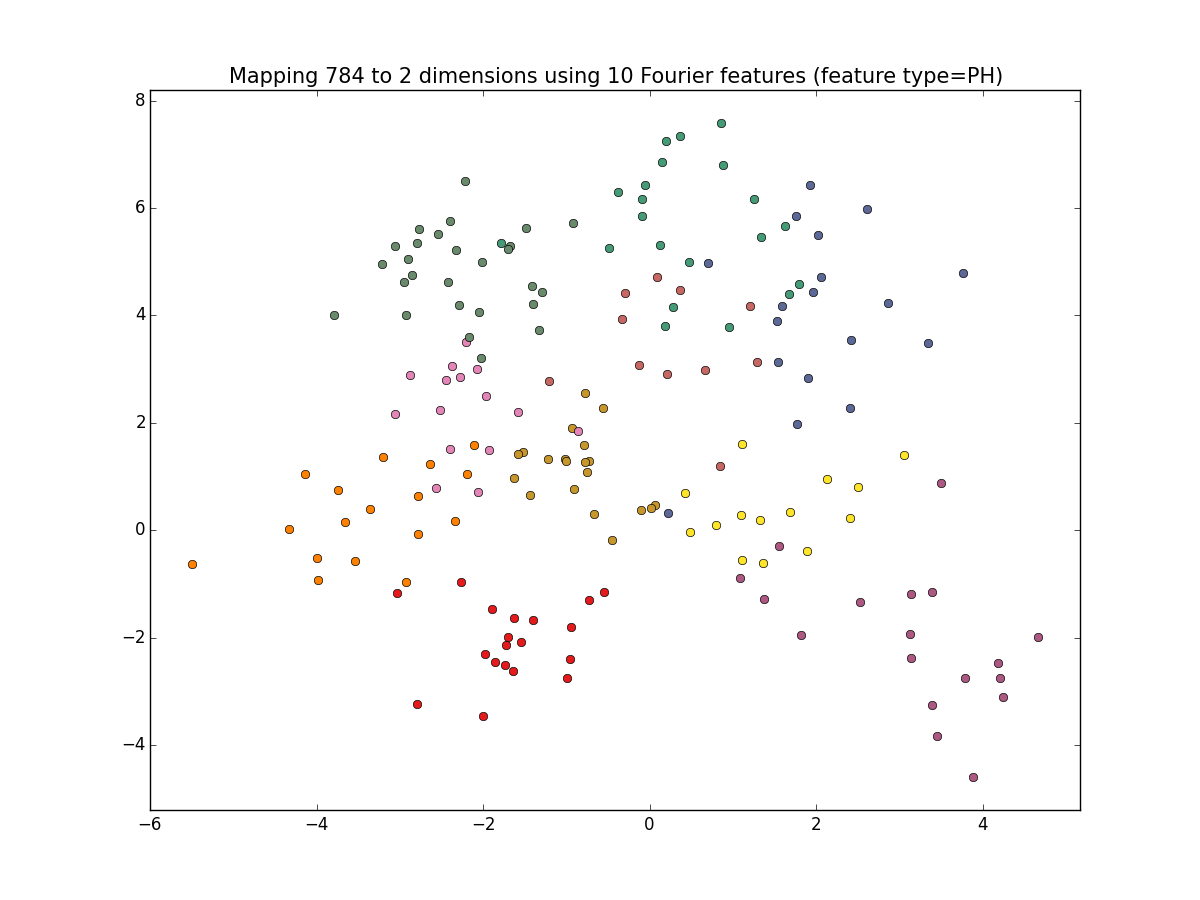
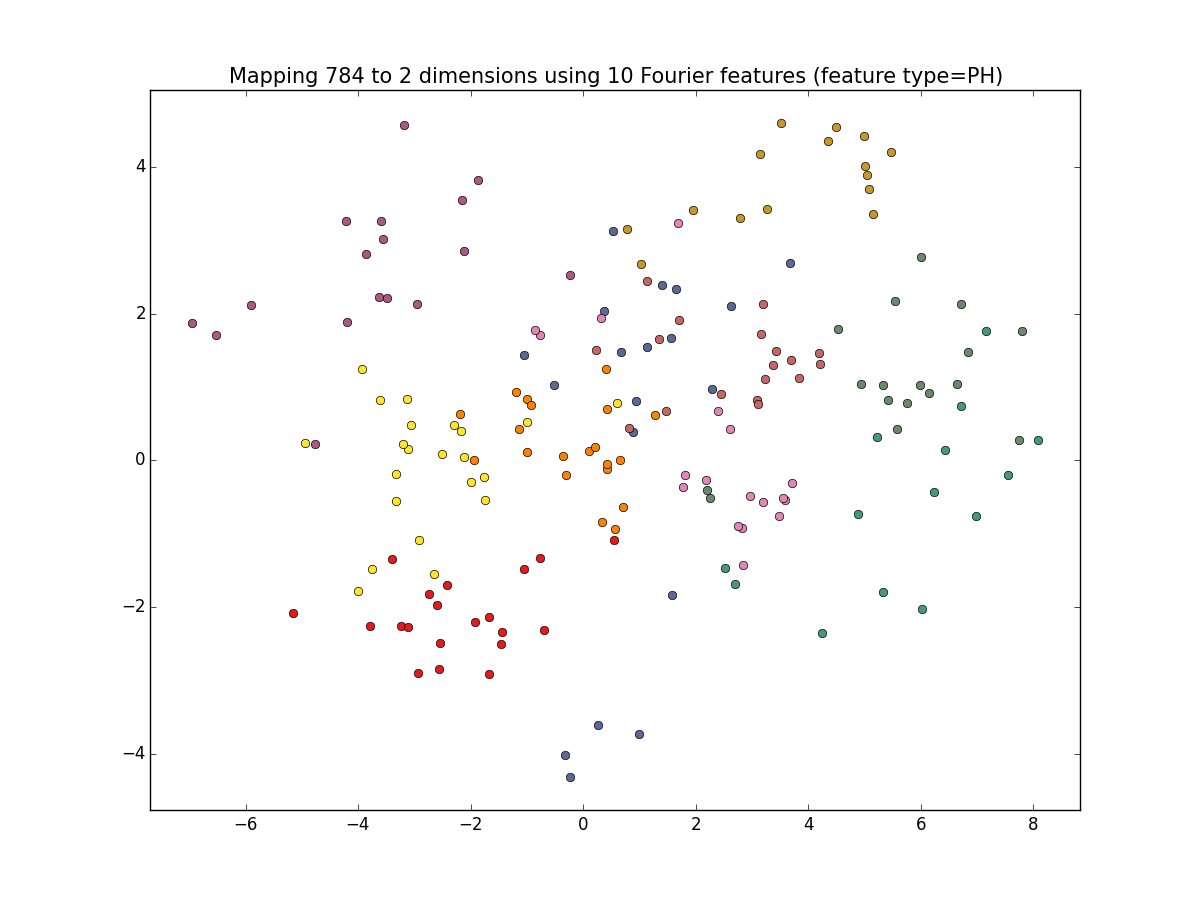
lastest commit

diff --git a/experiments/mnist/dimensionality_reduction.py b/experiments/mnist/dimensionality_reduction.py
@@ -31,23 +31,25 @@ def load_mnist_data(proportion=0.1):
 X_train, y_train, X_test, y_test, labels = load_mnist_data()
 _y_train = label_binarize(y_train, classes=labels)
 _y_test = label_binarize(y_test, classes=labels)
-Ms = [10, 30, 100]
-model_types = ["zph", "zf", "ph", "f"]
+Ms = [10, 30, 50]
+model_types = ["phz", "fz", "ph", "f"]
 for M in Ms:
     for fftype in model_types:
         model = SCFGP(rank=2, feature_size=M, fftype=fftype)
-        model.fit(X_train, _y_train)
+        model.fit(X_train, _y_train, callback=callback)
         fig = plt.figure(1, figsize=(12, 9), facecolor='white', dpi=120)
-        plt.title('Mapping 784 to 2 dimensions using %d Fourier features (feature type=%s)'%(
-            M, fftype.upper()), fontsize=15)
+        plt.title('Mapping 784 to 2 dimensions using %d Fourier '+\
+            'features (feature type=%s)'%(M, fftype.upper()), fontsize=15)
         ax = fig.add_subplot(111)
-        c = np.reshape(model.hyper[2:2+model.D*model.R], (model.D, model.R))
-        tX = model.X_nml.forward_transform(X_test).dot(c)
-        for i in range(tX.shape[0]):
-            ax.plot(tX[i, 0], tX[i, 1], 'o',
-                color=plt.cm.Set1(int(y_test[i])/10.))
-        minx, maxx = min(tX[:, 0]), max(tX[:, 0])
-        miny, maxy = min(tX[:, 1]), max(tX[:, 1])
-        ax.set_xlim([minx-(maxx-minx)*0.05,maxx+(maxx-minx)*0.05])
-        ax.set_ylim([miny-(maxy-miny)*0.05,maxy+(maxy-miny)*0.05])
+        def callback():
+            ax.cla()
+            c = np.reshape(model.hyper[2:2+model.D*model.R], (model.D, model.R))
+            tX = model.X_nml.forward_transform(X_test).dot(c)
+            for i in range(tX.shape[0]):
+                ax.plot(tX[i, 0], tX[i, 1], 'o',
+                    color=plt.cm.Set1(int(y_test[i])/10.))
+            minx, maxx = min(tX[:, 0]), max(tX[:, 0])
+            miny, maxy = min(tX[:, 1]), max(tX[:, 1])
+            ax.set_xlim([minx-(maxx-minx)*0.05,maxx+(maxx-minx)*0.05])
+            ax.set_ylim([miny-(maxy-miny)*0.05,maxy+(maxy-miny)*0.05])
         plt.savefig('visualize_mnist_%s_%d.png'%(fftype, M))

diff --git a/SCFGP/model/SCFGP.py b/SCFGP/model/SCFGP.py
@@ -52,9 +52,9 @@ class SCFGP(object):
             self.use_inducing_inputs = False
             self.use_optimized_phases = False
             self.add_low_rank_freq = False
-            if("z" in fftype):
+            if("z" in fftype.lower()):
                 self.use_inducing_inputs = True
-            if("ph" in fftype):
+            if("ph" in fftype.lower()):
                 self.use_optimized_phases = True
             if(rank != "full"):
                 self.add_low_rank_freq = True
@@ -193,7 +193,7 @@ class SCFGP(object):
         self.invL, self.AiPhiTY, self.y_pred, self.cost, _ = self.train_func(
             self.X, self.y, self.hyper)
 
-    def fit(self, X, y, Xs=None, ys=None, funcs=None, opt=None,
+    def fit(self, X, y, Xs=None, ys=None, funcs=None, opt=None, callback=None,
         plot_training=False, plot_1d_function=False):
         self.X_nml.fit(X)
         self.y_nml.fit(y)
@@ -300,6 +300,7 @@ class SCFGP(object):
             self.message(self.NAME, " TrNMSE = %.4f"%(self.TrNMSE))
             if(Xs is not None and ys is not None):
                 self.predict(Xs, ys)
+            callback()
             if(iter == -1):
                 return
             if(plot_training):

diff --git a/README.md b/README.md
@@ -66,20 +66,20 @@ model.fit(X_train, y_train, X_test, y_test)
 ## Visualize MNIST
 ### Feature Type 1: Fourier (sine & cosine)
 ![MNIST-F-10](experiments/mnist/visualize_mnist_f_10.png?raw=true "MNIST F 10")
-![MNIST-F-30](experiments/mnist/visualize_mnist_f_30.png?raw=true "MNIST F 10")
-![MNIST-F-100](experiments/mnist/visualize_mnist_f_100.png?raw=true "MNIST F 10")
+![MNIST-F-30](experiments/mnist/visualize_mnist_f_30.png?raw=true "MNIST F 30")
+![MNIST-F-50](experiments/mnist/visualize_mnist_f_50.png?raw=true "MNIST F 50")
 ### Feature Type 2: Fourier (sine & cosine) + Inducing Frequencies
-![MNIST-ZF-10](experiments/mnist/visualize_mnist_zf_10.png?raw=true "MNIST ZF 10")
-![MNIST-ZF-30](experiments/mnist/visualize_mnist_zf_30.png?raw=true "MNIST ZF 30")
-![MNIST-ZF-100](experiments/mnist/visualize_mnist_zf_100.png?raw=true "MNIST ZF 100")
+![MNIST-FZ-10](experiments/mnist/visualize_mnist_fz_10.png?raw=true "MNIST FZ 10")
+![MNIST-FZ-30](experiments/mnist/visualize_mnist_fz_30.png?raw=true "MNIST FZ 30")
+![MNIST-FZ-50](experiments/mnist/visualize_mnist_fz_50.png?raw=true "MNIST FZ 50")
 ### Feature Type 3: Cosine with Adjustable Phases (only cosine)
 ![MNIST-PH-10](experiments/mnist/visualize_mnist_ph_10.png?raw=true "MNIST PH 10")
 ![MNIST-PH-30](experiments/mnist/visualize_mnist_ph_30.png?raw=true "MNIST PH 30")
-![MNIST-PH-100](experiments/mnist/visualize_mnist_ph_100.png?raw=true "MNIST PH 100")
+![MNIST-PH-50](experiments/mnist/visualize_mnist_ph_50.png?raw=true "MNIST PH 50")
 ### Feature Type 4: Cosine with Adjustable Phases (only cosine) + Inducing Frequencies
-![MNIST-ZPH-10](experiments/mnist/visualize_mnist_zph_10.png?raw=true "MNIST ZPH 10")
-![MNIST-ZPH-30](experiments/mnist/visualize_mnist_zph_30.png?raw=true "MNIST ZPH 30")
-![MNIST-ZPH-100](experiments/mnist/visualize_mnist_zph_100.png?raw=true "MNIST ZPH 100")
+![MNIST-PHZ-10](experiments/mnist/visualize_mnist_phz_10.png?raw=true "MNIST PHZ 10")
+![MNIST-PHZ-30](experiments/mnist/visualize_mnist_phz_30.png?raw=true "MNIST PHZ 30")
+![MNIST-PHZ-50](experiments/mnist/visualize_mnist_phz_50.png?raw=true "MNIST PHZ 50")
 <h3 align="center">
 "The similariy of high-dimensional features over different classes are preserved!"
 </h3>
